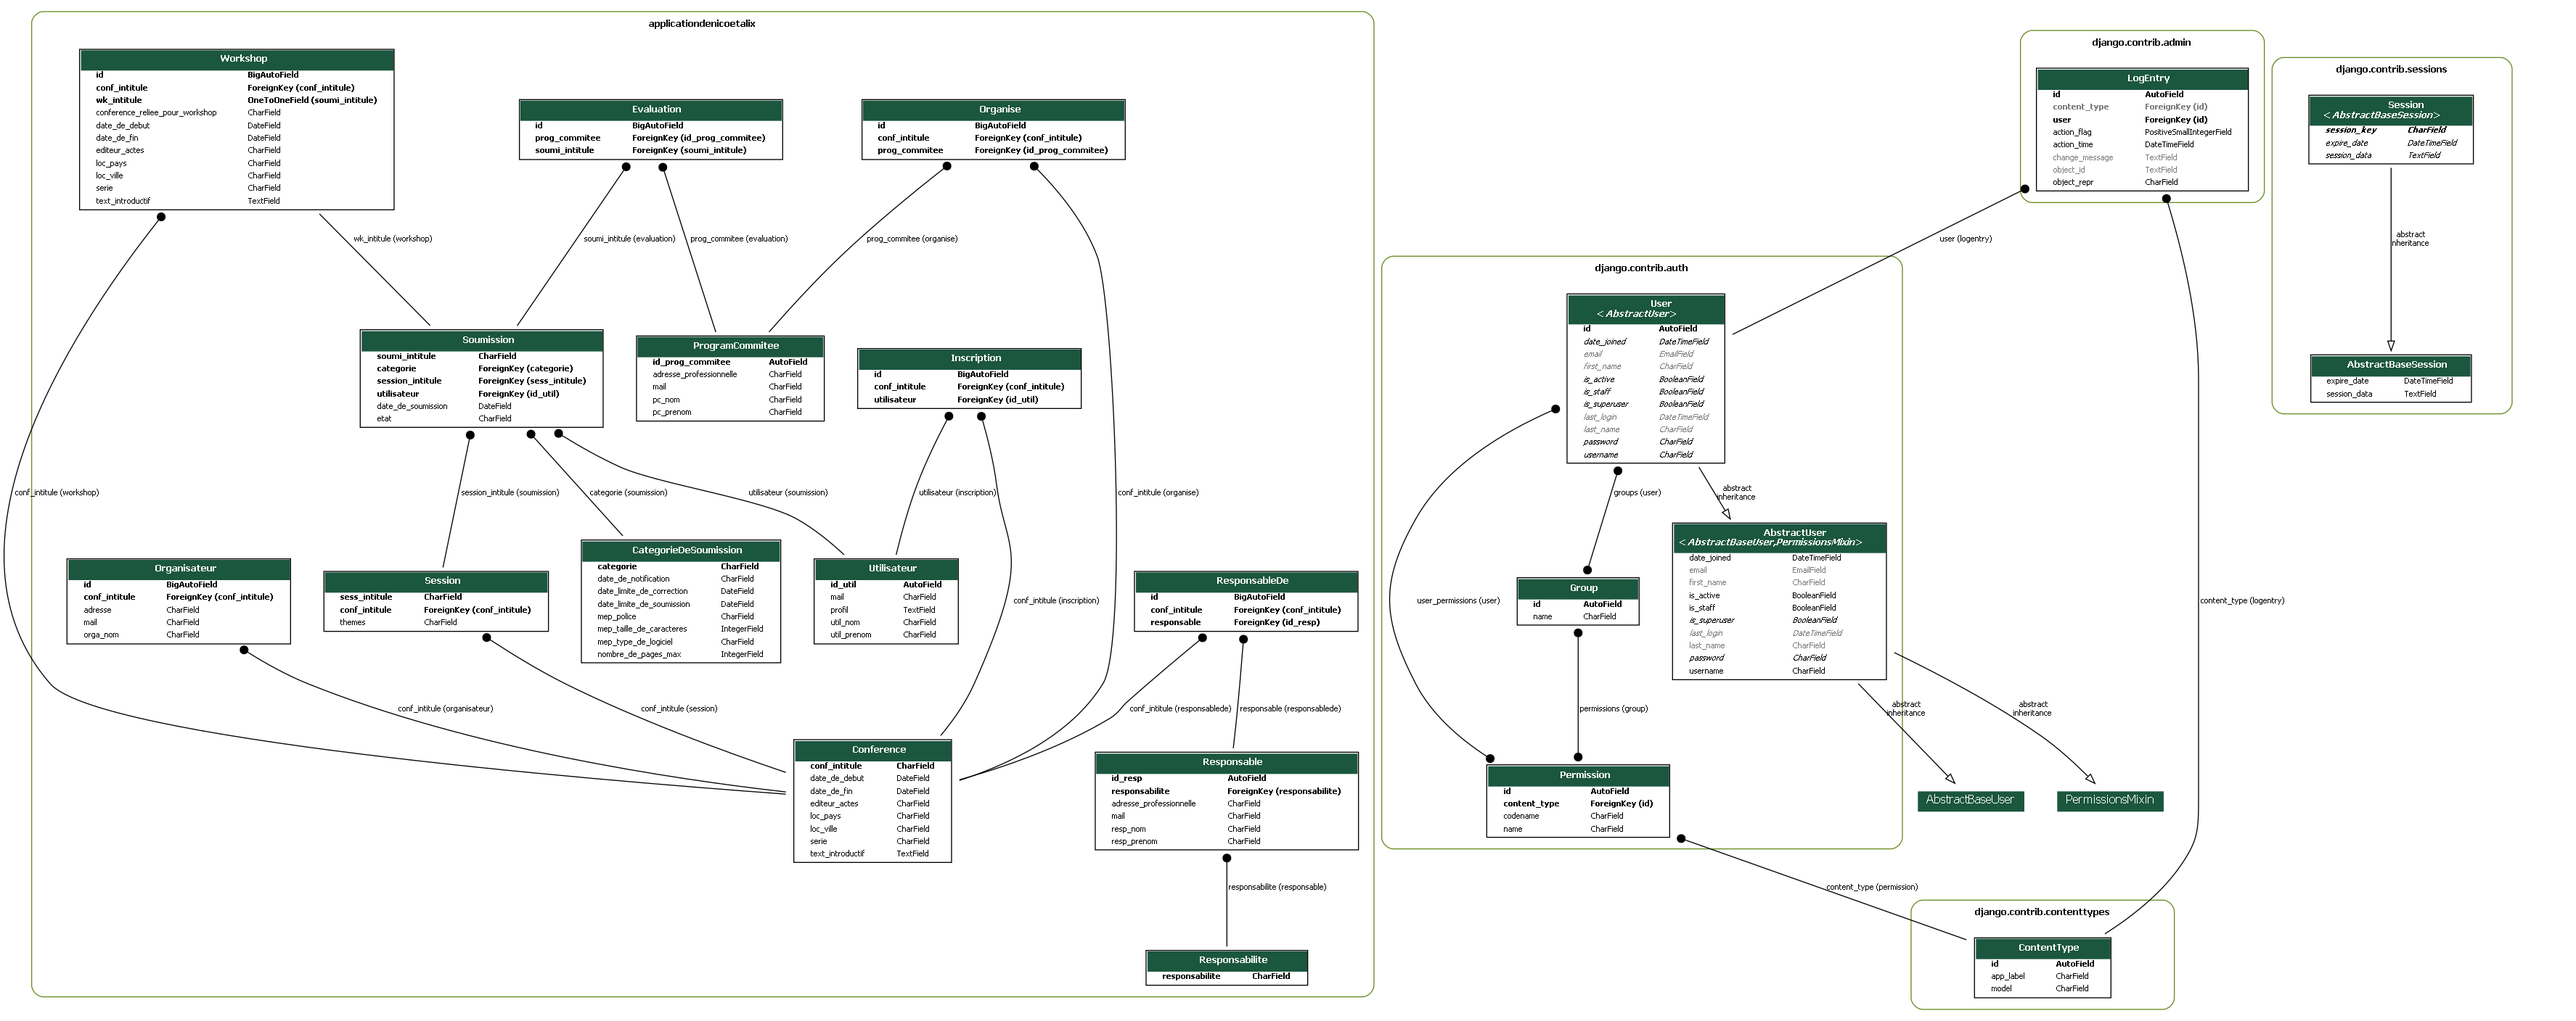
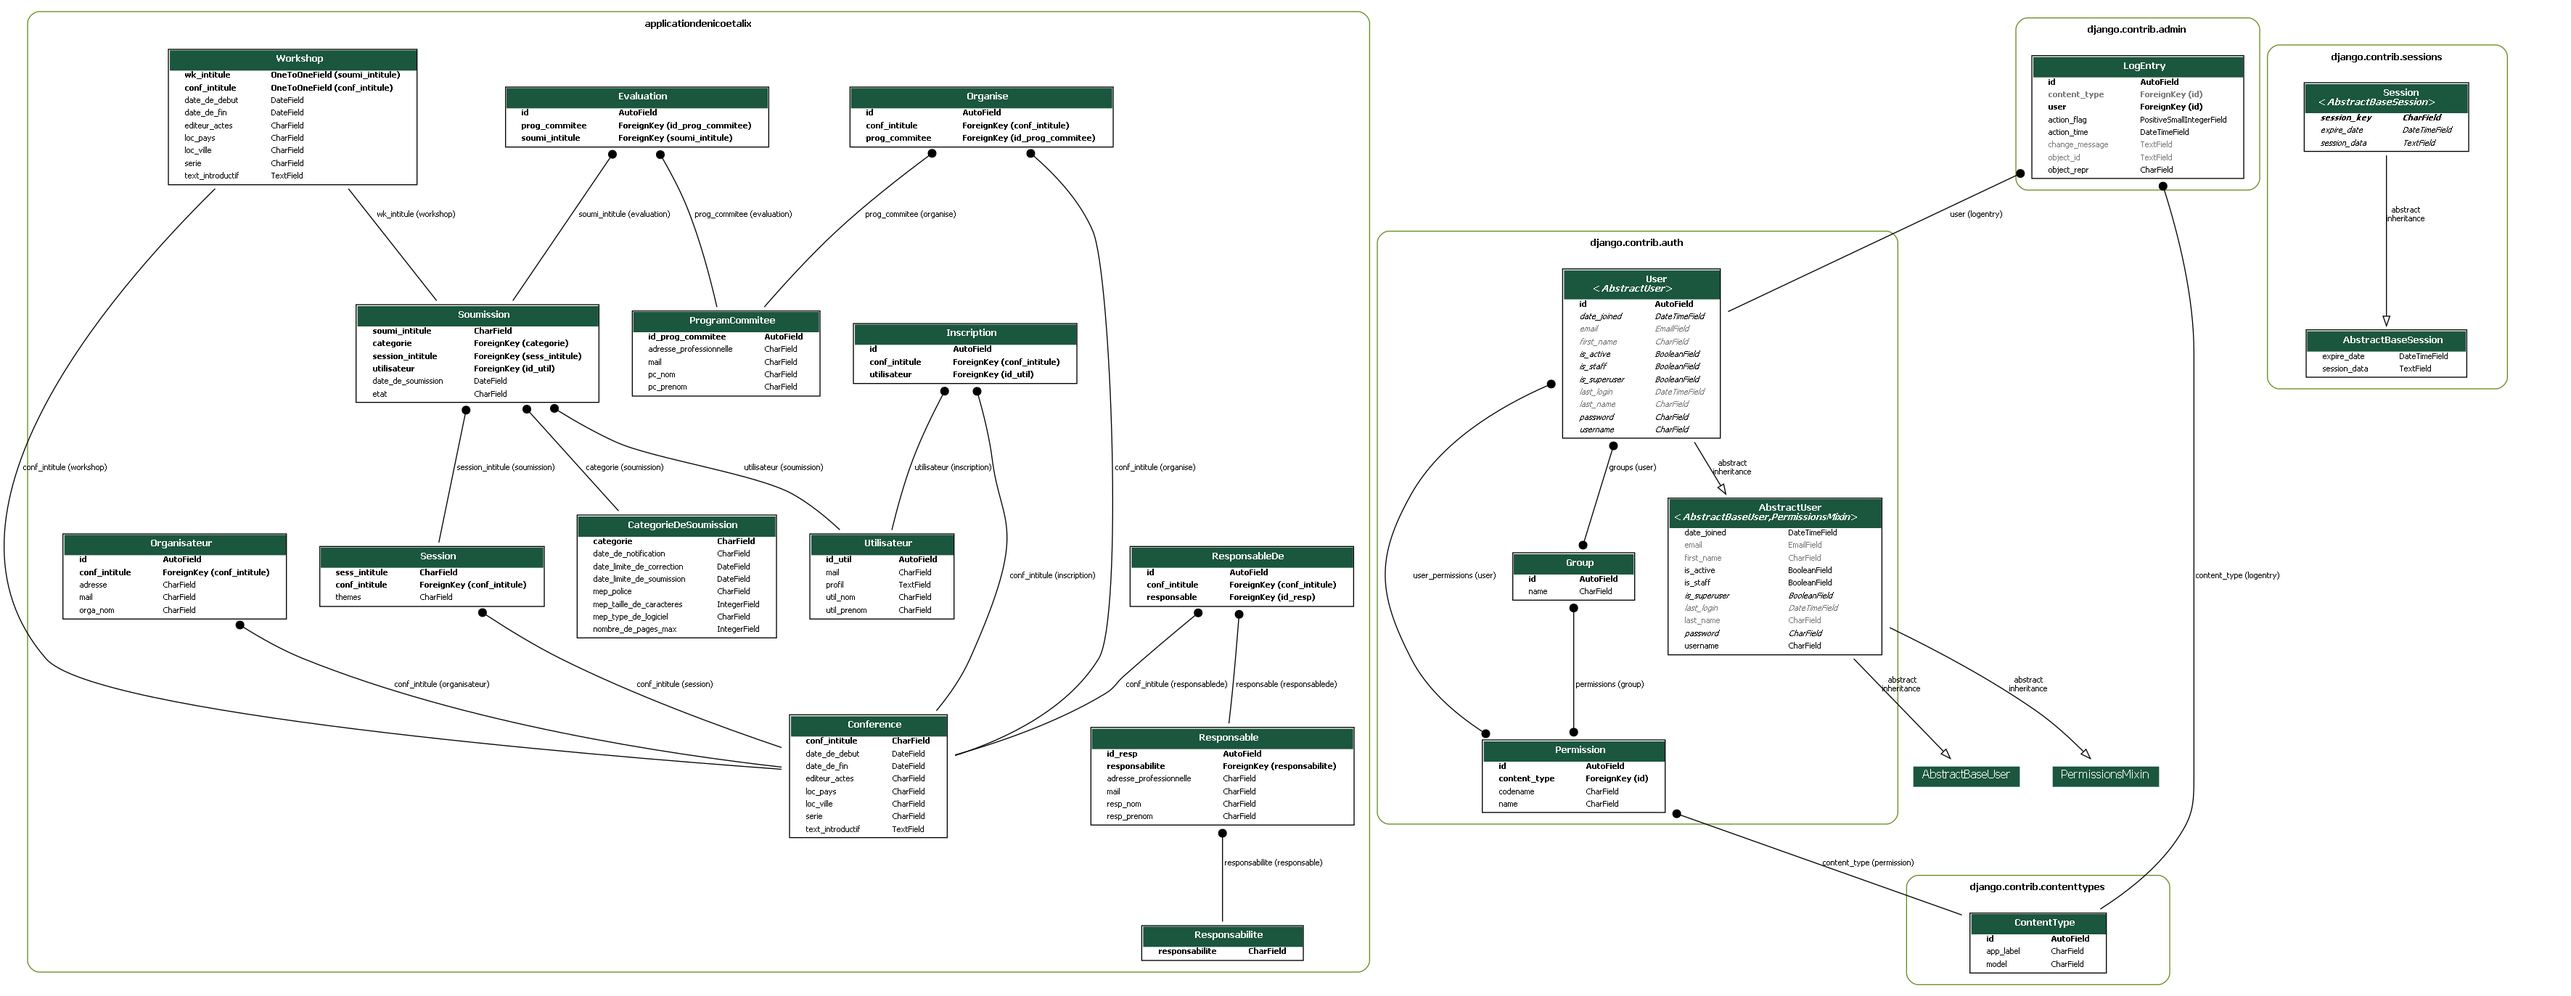
push vacances

diff --git a/applicationdenicoetalix/migrations/0002_alter_conference_options_and_more.py b/applicationdenicoetalix/migrations/0002_alter_conference_options_and_more.py
@@ -1,0 +1,57 @@
+# Generated by Django 5.0 on 2023-12-13 15:27
+
+import django.db.models.deletion
+from django.db import migrations, models
+
+
+class Migration(migrations.Migration):
+
+    dependencies = [
+        ('applicationdenicoetalix', '0001_initial'),
+    ]
+
+    operations = [
+        migrations.AlterModelOptions(
+            name='conference',
+            options={'managed': False},
+        ),
+        migrations.RemoveField(
+            model_name='workshop',
+            name='conference_reliee_pour_workshop',
+        ),
+        migrations.AlterField(
+            model_name='evaluation',
+            name='id',
+            field=models.AutoField(auto_created=True, primary_key=True, serialize=False, verbose_name='ID'),
+        ),
+        migrations.AlterField(
+            model_name='inscription',
+            name='id',
+            field=models.AutoField(auto_created=True, primary_key=True, serialize=False, verbose_name='ID'),
+        ),
+        migrations.AlterField(
+            model_name='organisateur',
+            name='id',
+            field=models.AutoField(auto_created=True, primary_key=True, serialize=False, verbose_name='ID'),
+        ),
+        migrations.AlterField(
+            model_name='organise',
+            name='id',
+            field=models.AutoField(auto_created=True, primary_key=True, serialize=False, verbose_name='ID'),
+        ),
+        migrations.AlterField(
+            model_name='responsablede',
+            name='id',
+            field=models.AutoField(auto_created=True, primary_key=True, serialize=False, verbose_name='ID'),
+        ),
+        migrations.AlterField(
+            model_name='session',
+            name='conf_intitule',
+            field=models.ForeignKey(db_column='Conf_intitule', on_delete=django.db.models.deletion.DO_NOTHING, to='applicationdenicoetalix.conference'),
+        ),
+        migrations.AlterField(
+            model_name='workshop',
+            name='id',
+            field=models.AutoField(auto_created=True, primary_key=True, serialize=False, verbose_name='ID'),
+        ),
+    ]

diff --git a/applicationdenicoetalix/models.py b/applicationdenicoetalix/models.py
@@ -138,7 +138,7 @@ class ProgramCommitee(models.Model):
     def __str__(self) :
         return self.pc_nom + ' ' + self.pc_prenom
 
-class Responsabilite(models.Model):
+class Responsabilite(models.Model): 
     responsabilite = models.CharField(db_column="Responsabilite", primary_key=True, max_length=20)  # Field name made lowercase.
 
     class Meta:
@@ -214,7 +214,7 @@ class Soumission(models.Model):
     
 
 class Workshop(models.Model):
-    wk_intitule = models.OneToOneField(Soumission, models.DO_NOTHING, db_column='wk_intitule')  # Field name made lowercase.
+    wk_intitule = models.OneToOneField(Soumission, models.DO_NOTHING, db_column='wk_intitule', primary_key=True)  # Field name made lowercase.
     date_de_debut = models.DateField(db_column='Date_de_debut')  # Field name made lowercase.
     date_de_fin = models.DateField(db_column='Date_de_fin')  # Field name made lowercase.
     loc_ville = models.CharField(db_column='Loc_Ville', max_length=15)  # Field name made lowercase.
@@ -222,15 +222,14 @@ class Workshop(models.Model):
     serie = models.CharField(db_column='Serie', max_length=10)  # Field name made lowercase.
     text_introductif = models.TextField(db_column='Text_introductif')  # Field name made lowercase.
     editeur_actes = models.CharField(db_column='Editeur_actes', max_length=30)  # Field name made lowercase.
-    conference_reliee_pour_workshop = models.CharField(db_column='Conference_reliee_pour_workshop', max_length=10)  # Field name made lowercase.
-    conf_intitule = models.ForeignKey(Conference, models.DO_NOTHING, db_column='Conf_intitule')  # Field name made lowercase.
+    conf_intitule = models.OneToOneField(Conference, models.DO_NOTHING, db_column='Conf_intitule')  # Field name made lowercase.
 
     class Meta:
         managed = True
         db_table = "workshop"
 
     def __str__(self) :
-        return self.wk_intitule
+        return str(self.wk_intitule)
 
 # class Question(models.Model):
 #     question_text = models.CharField(max_length=200)

diff --git a/applicationdenicoetalix/migrations/0003_remove_workshop_id_alter_workshop_conf_intitule_and_more.py b/applicationdenicoetalix/migrations/0003_remove_workshop_id_alter_workshop_conf_intitule_and_more.py
@@ -1,0 +1,28 @@
+# Generated by Django 5.0 on 2023-12-13 15:39
+
+import django.db.models.deletion
+from django.db import migrations, models
+
+
+class Migration(migrations.Migration):
+
+    dependencies = [
+        ('applicationdenicoetalix', '0002_alter_conference_options_and_more'),
+    ]
+
+    operations = [
+        migrations.RemoveField(
+            model_name='workshop',
+            name='id',
+        ),
+        migrations.AlterField(
+            model_name='workshop',
+            name='conf_intitule',
+            field=models.OneToOneField(db_column='Conf_intitule', on_delete=django.db.models.deletion.DO_NOTHING, to='applicationdenicoetalix.conference'),
+        ),
+        migrations.AlterField(
+            model_name='workshop',
+            name='wk_intitule',
+            field=models.OneToOneField(db_column='wk_intitule', on_delete=django.db.models.deletion.DO_NOTHING, primary_key=True, serialize=False, to='applicationdenicoetalix.soumission'),
+        ),
+    ]
